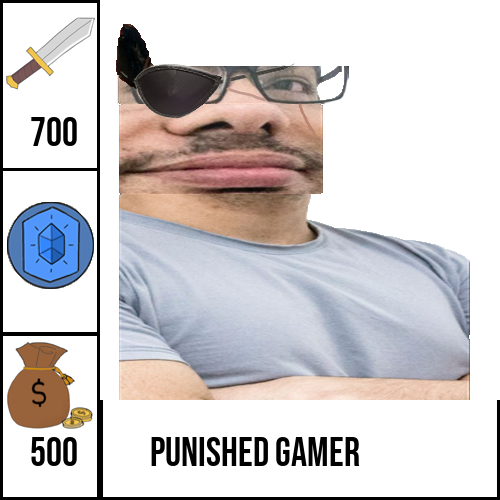
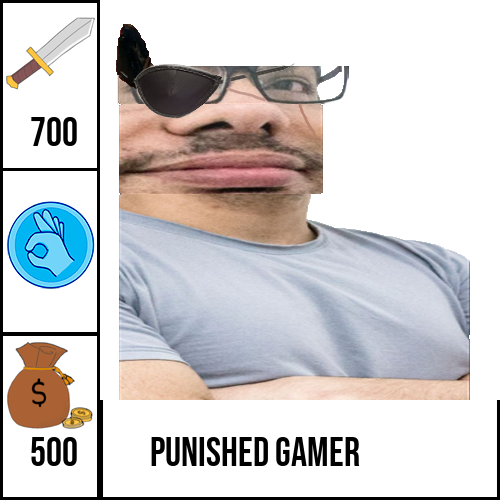
Gamers & ikon opdatering
Tilføjet de sidste gamers, opdateret icon2 og statsBar2 (Kan altid revertes meget hurtigt, hvis i syntes bedre om det andet) samt indsatte en ekstra række, for at have nok plads i interface.

Changed region(s): [[0.0, 0.39, 0.21, 0.6]]

diff --git a/GUIWindow.py b/GUIWindow.py
@@ -20,7 +20,7 @@ class GUIWindow():
     sortStr = ["Highest Power", "Lowest Power", "Highest Cost", "Lowest Cost", "Highest Rank", "Lowest Rank"]
     curSortNum = 0  # Variabel der viser hvilken string vi er ved i sortStr-arrayet.
 
-    row1 = 8  # Rækker af felter der skal laves
+    row1 = 9  # Rækker af felter der skal laves
     col1 = 5  # Kolonner i første antal felter (Unit Listen)
     row2 = 2
     col2 = 1  # Kolonner i anden række (der skiller units og team)
